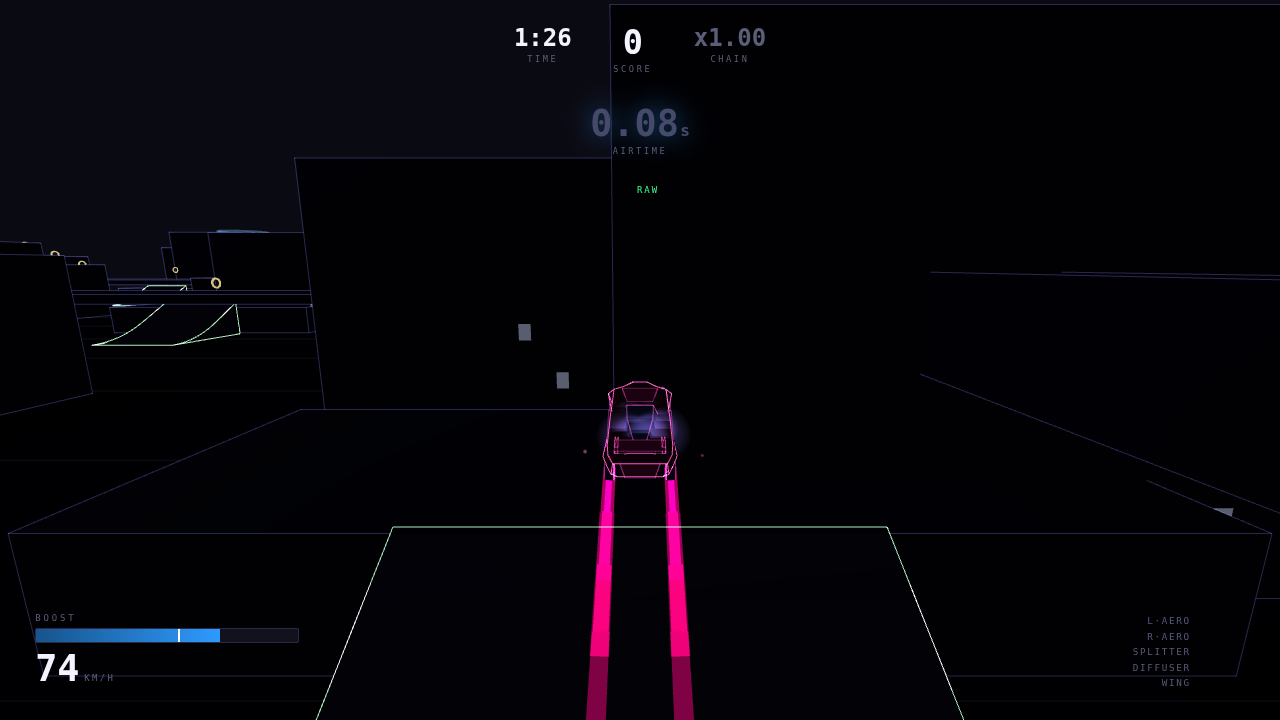
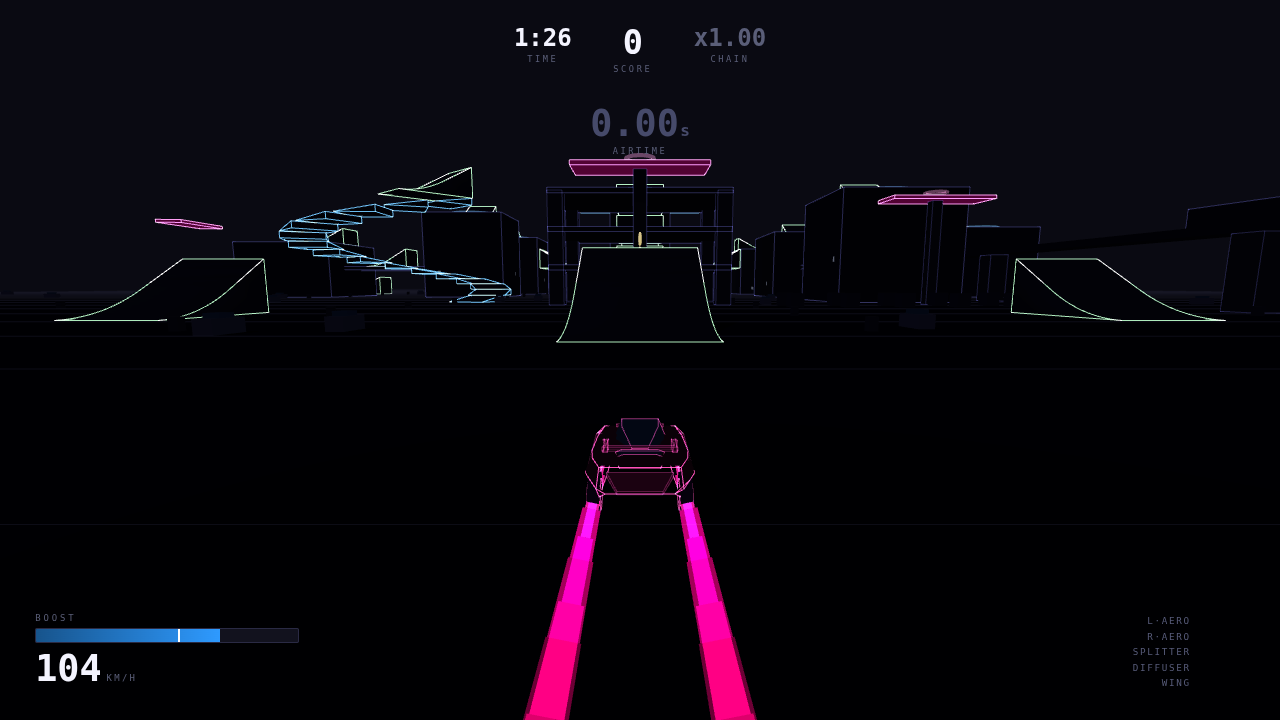
Reduce Effects covers what it was supposed to, and the screens are current
Two debts, both created by shipping something.

Reduce Effects was covering one system out of four. The art brief makes it
binding — "must exist same day the look ships" — and it did, for the trails.
Then the signs, the brake discs and the ghost arrived, and every one of them
ignored it, because each carried the flag itself or did not ask at all. That
is the failure mode of a per-consumer flag: a system added later opts out by
forgetting.

So it is a switch in render/theme.js now, next to the colourblind one, for
the same stated reason — every consumer follows without carrying a copy.
What each system does with it is a judgement rather than a blanket kill:

  - Signs dim and stop punching to white, but still say "land here". That is
    gameplay information; brightness is the arena's own language for it.
  - Brake discs dim to 35% rather than going out. A glowing brake is a
    readout of something the car is doing.
  - The ghost dims and never disappears. Hiding it would not be reducing
    effects, it would be leaving the mode.

And the end-to-end claim, which is the one that matters and which nothing
could previously see because no probe ever turned the switch on: Reduce
Effects can never make the picture brighter. probe:dark shoots both
scenarios twice now.

  hero jump          92.1% dark full effects, 92.1% reduced
  4-way split        95.8% dark full effects, 95.9% reduced

The screen exhibits were three builds stale — rendered at 79cc7d3, before
[…]

diff --git a/src/main.js b/src/main.js
@@ -51,7 +51,7 @@ import { encodeRun, decodeRun } from './game/codes.js';
 import { dailySet } from './game/daily.js';
 import { ghostFromRun, bakeGhost, saveGhost, bestGhost, listGhosts } from './game/ghosts.js';
 import { simVersion } from './sim/version.js';
-import { setColorblind, playerColorCss } from './render/theme.js';
+import { setColorblind, playerColorCss, setReduceEffects } from './render/theme.js';
 
 const DT = 1 / TUNING.SIM.HZ;
 
@@ -90,6 +90,8 @@ class Game {
     // The colourblind option swaps the whole player palette (release spec
     // §A), so it is set before anything player-coloured is built.
     setColorblind(this.options.colorblindTrails);
+    // §A: one switch, whole game — trails, signs, brake discs and the ghost.
+    setReduceEffects(!!this.options.reduceEffects);
     document.documentElement.style.setProperty('--p1', playerColorCss(0));
 
     this.art = new ArtDirector(scene, renderer);
@@ -1230,7 +1232,10 @@ class Game {
       else TUNING.TRAFFIC.MODE = v;
     }
     if (k === 'artStyle') this.art.setStyle(v);
-    if (k === 'reduceEffects' && this.trails) this.trails.setOptions({ reduceEffects: v });
+    if (k === 'reduceEffects') {
+      setReduceEffects(v);
+      if (this.trails) this.trails.setOptions({ reduceEffects: v });
+    }
     if (k === 'colorblindTrails') {
       // One switch, whole game: trails, trim, split HUD and the CSS accent
       // all follow the palette in the same frame.
@@ -1253,7 +1258,7 @@ class Game {
     this.accum = 0;
   }
 
-  async beginCapture({ behavior = null, style = null, fps = 30, start = null, script = 'demo', arena = 'park', players = 1 } = {}) {
+  async beginCapture({ behavior = null, style = null, fps = 30, start = null, script = 'demo', arena = 'park', players = 1, reduce = null, vantage = null } = {}) {
     this.stop();
     await this.useArena(arena, { players, mode: 'stunt' });
     this.setPlayerCount(players);
@@ -1272,9 +1277,29 @@ class Game {
     this.sim.restartRun('stunt');
     this.sim.run.begin();
     if (style) this.art.setStyle(style);      // forced, not saved as a preference
+    // §A: forced for the shot, and never written to the player's options —
+    // the accessibility clip has to be the same jump with one switch flipped.
+    if (reduce !== null) {
+      setReduceEffects(reduce);
+      if (this.trails) this.trails.setOptions({ reduceEffects: reduce });
+    }
     this._captureOverride = behavior;
     this.director.setOverride(behavior);
     this.screens.go('run');
+
+    // A starting vantage, for arenas the scripted driver cannot reach the
+    // interesting parts of. It flails outside The Yard — in Skyline it never
+    // gets off the deck, because the way up is a spiral it has no idea how to
+    // take — so a clip driven from the spawn is a film of the driver's
+    // limitations rather than of the arena. The driving after this point is
+    // real; only the starting position is chosen.
+    if (vantage) {
+      const p0 = this.sim.players[0];
+      p0.place(vantage.pos, vantage.heading || 0);
+      const f = p0.car.forward;
+      const sp = vantage.speed ?? 24;
+      p0.car.body.setLinvel({ x: f.x * sp, y: 0, z: f.z * sp }, true);
+    }
 
     this.advance(start);
     this.renderFrame(1 / fps);
@@ -1289,6 +1314,9 @@ class Game {
   }
 
   endCapture() {
+    // Put the player's own choice back, whatever the clip forced.
+    setReduceEffects(!!this.options.reduceEffects);
+    if (this.trails) this.trails.setOptions({ reduceEffects: !!this.options.reduceEffects });
     this.mode = 'play';
     this.inRun = false;
     this._captureOverride = null;

diff --git a/src/render/ghost-view.js b/src/render/ghost-view.js
@@ -17,12 +17,15 @@
 import * as THREE from 'three';
 import TUNING from '../TUNING.js';
 import { buildWedgeBody } from './wedge.js';
-import { THEME } from './theme.js';
+import { THEME, isReduced } from './theme.js';
 
 /** Far enough away and it is a distraction; close enough and it is the race. */
 const FADE_NEAR = 6;
 const FADE_FAR = 26;
 const BASE_OPACITY = 0.42;
+// Reduce Effects dims it, and never removes it: the ghost is the opponent, so
+// hiding it would not be reducing effects, it would be leaving the mode.
+const REDUCED_OPACITY = 0.20;
 
 export function buildGhostView(scene) {
   const root = new THREE.Group();
@@ -81,11 +84,12 @@ export function buildGhostView(scene) {
       // Dissolve at the lens, like the trails and the target markers: a
       // wireframe car crossed at arm's length fills the screen with white
       // lines, and probe:dark counts every one of them.
+      const base = isReduced() ? REDUCED_OPACITY : BASE_OPACITY;
       if (camPos) {
         const d = Math.hypot(pose.x - camPos.x, pose.y - camPos.y, pose.z - camPos.z);
         const k = Math.min(1, Math.max(0, (d - FADE_NEAR) / (FADE_FAR - FADE_NEAR)));
-        mat.opacity = BASE_OPACITY * k;
-      }
+        mat.opacity = base * k;
+      } else mat.opacity = base;
     },
 
     hide() { root.visible = false; },

diff --git a/src/render/signs.js b/src/render/signs.js
@@ -25,7 +25,7 @@
 
 import * as THREE from 'three';
 import TUNING from '../TUNING.js';
-import { THEME } from './theme.js';
+import { THEME, isReduced } from './theme.js';
 
 const clamp01 = (v) => (v < 0 ? 0 : v > 1 ? 1 : v);
 
@@ -42,9 +42,13 @@ export function signBrightness(sign, car, hit = null) {
   // object in the arena for as long as the flash lasts, and photosensitivity
   // caps that at 120 ms of full white (the art brief's own number).
   if (hit !== null && hit < S.FLASH_TIME) {
-    return { level: 1, flash: 1 - hit / S.FLASH_TIME };
+    const f = 1 - hit / S.FLASH_TIME;
+    return isReduced()
+      ? { level: S.REDUCED_FLASH, flash: f * S.REDUCED_FLASH }
+      : { level: 1, flash: f };
   }
 
+  const live = isReduced() ? S.REDUCED_LIVE : S.LIVE;
   let level = S.IDLE;
   if (car && car.airborne) {
     const dx = sign.aim.x - car.position.x;
@@ -59,7 +63,7 @@ export function signBrightness(sign, car, hit = null) {
       if (align > S.CONE) {
         const a = (align - S.CONE) / (1 - S.CONE);
         const near = 1 - clamp01((dist - S.NEAR) / (S.FAR - S.NEAR));
-        level = S.IDLE + (S.LIVE - S.IDLE) * clamp01(a * a * near);
+        level = S.IDLE + (live - S.IDLE) * clamp01(a * a * near);
       }
     }
   }

diff --git a/src/render/trails.js b/src/render/trails.js
@@ -21,7 +21,7 @@
 
 import * as THREE from 'three';
 import TUNING from '../TUNING.js';
-import { THEME, playerColor } from './theme.js';
+import { THEME, playerColor, isReduced, setReduceEffects } from './theme.js';
 import { SLOTS } from '../sim/panels.js';
 
 const MAX_PLAYERS = 4;
@@ -44,7 +44,6 @@ export class Trails {
   constructor(scene) {
     this.scene = scene;
     this.enabled = true;
-    this.reduceEffects = false;
     this.colorblind = false;
     this.players = 1;
     const T = TUNING.TRAILS;
@@ -136,9 +135,14 @@ export class Trails {
   setPlayerCount(n) { this.players = Math.min(n, MAX_PLAYERS); }
 
   setOptions({ reduceEffects, colorblind }) {
-    if (reduceEffects !== undefined) this.reduceEffects = reduceEffects;
+    // Reduce Effects is a whole-game switch (render/theme.js), not a trails
+    // flag — three later systems ignored it by keeping their own copy. This
+    // stays as a pass-through so every existing caller keeps working.
+    if (reduceEffects !== undefined) setReduceEffects(reduceEffects);
     if (colorblind !== undefined) this.colorblind = colorblind;
   }
+
+  get reduceEffects() { return isReduced(); }
 
   /** A fresh round wipes the painted arena. */
   beginRound() {

diff --git a/src/TUNING.js b/src/TUNING.js
@@ -651,6 +651,9 @@ export const TUNING = {
     AIRFLOW_COOL: 0.45,     // extra cooling at speed
     AIRFLOW_FULL: 45,       // m/s at which airflow cooling is at full
     GLOW_FROM: 0.22,        // below this the discs are dark
+    // Reduce Effects: dimmed rather than killed. A brake disc is a readout of
+    // something the car is doing, and removing it removes information.
+    REDUCED_GLOW: 0.35,
   },
 
   // ── Breakable props (R7) ─────────────────────────────────────────────────
@@ -675,6 +678,11 @@ export const TUNING = {
     FAR: 140,
     FLASH_TIME: 0.12,       // the art brief's photosensitivity cap, exactly
     DECAY_TIME: 0.9,
+    // Reduce Effects (§A): a sign still says "land here" — that is gameplay
+    // information, not decoration — but it stops being the brightest object
+    // in the arena and it stops punching to white.
+    REDUCED_LIVE: 0.40,
+    REDUCED_FLASH: 0.45,
   },
 
   // ── The PA (R7) ──────────────────────────────────────────────────────────

diff --git a/src/render/theme.js b/src/render/theme.js
@@ -39,6 +39,22 @@ let CB = false;
 export function setColorblind(on) { CB = !!on; }
 export function isColorblind() { return CB; }
 
+/**
+ * Reduce Effects — one switch for the whole game (§A, and binding).
+ *
+ * The art brief makes this non-negotiable: "must exist same day the look
+ * ships." It shipped with AFTERGLOW covering the trails, and then three more
+ * emissive systems arrived — the signs, the brake discs, the ghost — and every
+ * one of them ignored it, because each carried the flag itself or not at all.
+ *
+ * So it is a switch here, next to the colourblind one, for the same reason:
+ * every consumer follows without carrying its own copy, and a system added
+ * later cannot quietly opt out by forgetting to ask.
+ */
+let REDUCED = false;
+export function setReduceEffects(on) { REDUCED = !!on; }
+export function isReduced() { return REDUCED; }
+
 export function playerColor(index, colorblind = CB) {
   const set = colorblind ? PLAYER_COLORS_CB : PLAYER_COLORS;
   return set[index % set.length];

diff --git a/src/render/car-view.js b/src/render/car-view.js
@@ -15,7 +15,7 @@ import * as THREE from 'three';
 import TUNING from '../TUNING.js';
 import { SLOTS } from '../sim/panels.js';
 import { buildWedgeBody, buildAeroPlate, PANEL_KIND } from './wedge.js';
-import { playerColor, trimFor } from './theme.js';
+import { playerColor, trimFor, isReduced } from './theme.js';
 
 /**
  * AFTERGLOW's velocity stretch: the trim's vertex shader elongates the
@@ -277,7 +277,10 @@ export function buildCarView(scene, art, index = 0) {
       if (brakes) {
         const g = brakes.glow;
         const c = brakes.color;
-        discMat.opacity = g * 0.9;
+        // Reduce Effects dims the discs rather than killing them: a glowing
+        // brake is a readout of something the car is doing, and removing it
+        // removes information rather than decoration.
+        discMat.opacity = g * 0.9 * (isReduced() ? TUNING.BRAKES.REDUCED_GLOW : 1);
         discMat.color.setRGB(c.r, c.g, c.b);
       }
     },

diff --git a/ROADMAP.md b/ROADMAP.md
@@ -735,6 +735,63 @@ The daily set is three challenges chosen by the date, the same three for
 everybody, drawn from the ladder that already exists — a daily asking for
 something the game does not otherwise ask for is a second game.
 
+### Build 11 — the accessibility switch, and the exhibits
+
+Two debts, both created by shipping something.
+
+**Reduce Effects was covering one system out of four.** The art brief makes it
+binding — "must exist same day the look ships" — and it did, for the trails.
+Then the signs, the brake discs and the ghost arrived, and every one of them
+ignored it, because each carried the flag itself or did not ask at all. That
+is the failure mode of a per-consumer flag: a system added later opts out by
+forgetting.
+
+So it is a switch in `render/theme.js` now, next to the colourblind one, for
+the same stated reason — every consumer follows without carrying a copy. What
+each system does with it is a judgement rather than a blanket kill:
+
+- **Signs dim and stop punching to white**, but still say "land here". That is
+  gameplay information; brightness is the arena's own language for it.
+- **Brake discs dim to 35%** rather than going out. A glowing brake is a
+  readout of something the car is doing.
+- **The ghost dims and never disappears.** Hiding it would not be reducing
+  effects, it would be leaving the mode.
+
+And the end-to-end claim, which is the one that matters and which nothing
+could previously see because no probe ever turned the switch on: **Reduce
+Effects can never make the picture brighter.** `probe:dark` now shoots both
+scenarios twice.
+
+```
+── the ≥85% dark-frame rule, measured per frame (luma < 40/255) ──
+hero jump (art-gate clip)     worst frame 92.1% dark · mean 96.8%  ok
+4-way split, reactive traffic  worst frame 95.8% dark · mean 97.6%  ok
+
+── the same frames with Reduce Effects on ──
+hero jump (art-gate clip)     worst frame 92.1% dark · mean 96.9%  ok
+4-way split, reactive traffic  worst frame 95.9% dark · mean 97.5%  ok
+```
+
+**The exhibits were three builds stale.** They were rendered at `79cc7d3`,
+before R8 — so every city clip showed an arena that no longer exists, no
+exhibit showed a sign, a brake glow, a prop, a ghost or a single R9 screen,
+and `shots.mjs` still pointed at a `board` screen that became `boards` (seven
+tabs) two builds ago.
+
+Re-rendered, with four additions: a clip each for Mega Works, Floodway and
+Skyline, and **an accessibility clip** — the same hero jump, same seed, same
+camera, with Reduce Effects on, because "reads as the same game" is a footage
+question and there was no footage of it. The screens gained the mastery layer
+(challenges, the seven boards, ghosts, run codes, The Gauntlet).
+
+One honest note about how the arena shots are made: they are **placed, not
+driven**. The scripted driver finds the hero jump in The Yard and flails
+everywhere else — in Skyline it never gets off the deck, because the way up is
+a spiral it has no idea how to take — so a driven shot of those arenas is a
+photograph of the driver's limitations. A screenshot is a camera position, not
+a claim about anybody's driving. The *clips* are still driven, and they are
+honest about what the driver can do.
+
 ### Build 2's acceptance test
 
 > Give somebody one car, one arena, five minutes and no progression. Do they

diff --git a/README.md b/README.md
@@ -325,6 +325,22 @@ over at launch, tyre scrub on slip, landing weight, crash, per-part whooshes,
 and a cash-out that climbs a note per facet. No files and no licensing, driven
 straight off the simulation.
 
+### Reduce Effects (§A)
+
+One switch, whole game — `render/theme.js`, next to the colourblind one, for
+the same reason: every consumer follows without carrying its own copy. It
+shipped covering the trails, and then three later emissive systems ignored it
+because each carried the flag itself or never asked.
+
+What each system does with it is a judgement rather than a blanket kill.
+**Signs** dim and stop punching to white but still say "land here" — that is
+gameplay information. **Brake discs** dim to 35% rather than going out; a
+glowing brake is a readout. **The ghost** dims and never disappears, because
+hiding it would be leaving the mode rather than reducing effects.
+
+`npm run probe:dark` shoots both scenarios twice and holds the end-to-end
+claim: with Reduce Effects on, no frame is ever brighter.
+
 ### The premium debts, paid (R7)
 
 Five things the premium pass owed, and the five most tempting things in the
